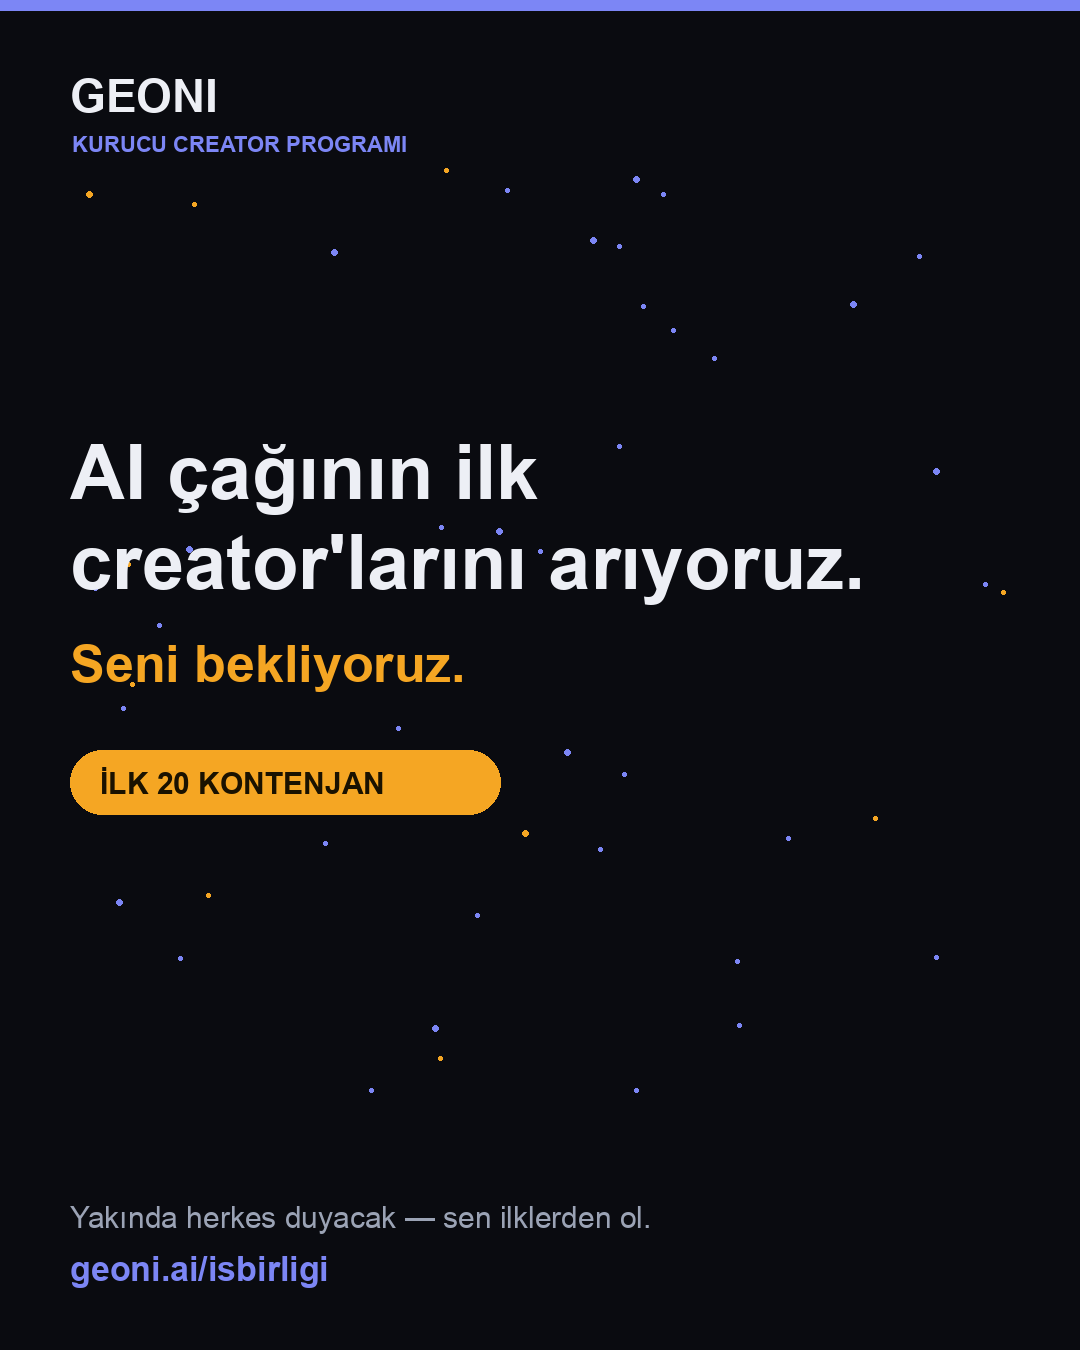
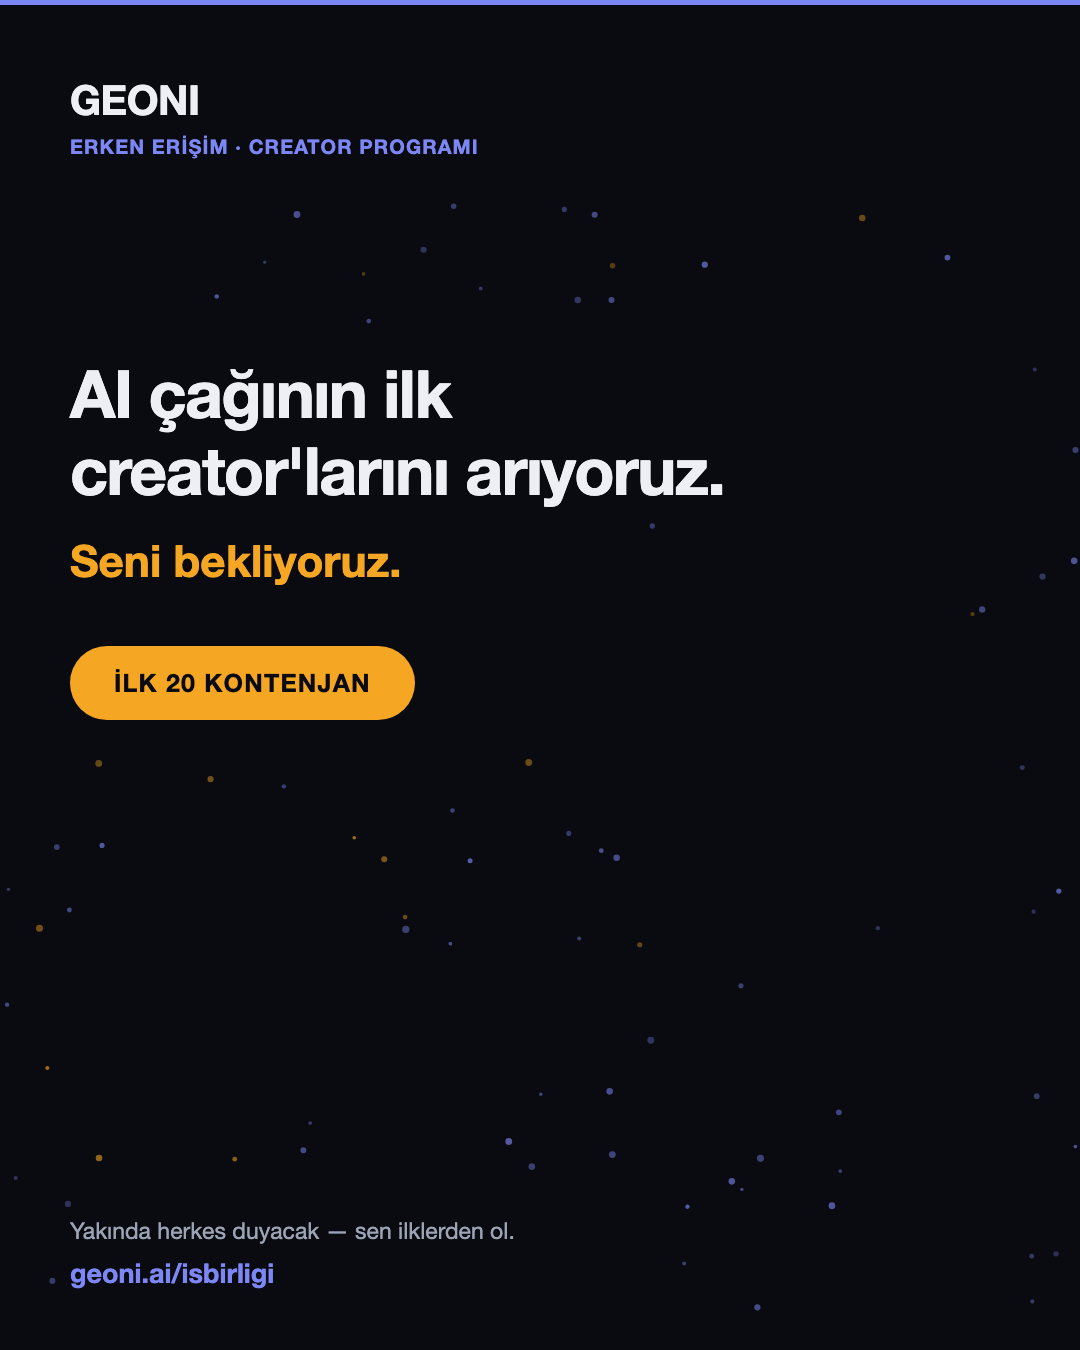
Creator hunisi: "kurucu" dili kalkti + CTA bandi gorunur hale geldi
Kurucu geri bildirimi (2026-07-25): (1) creator bloku sitenin dibinde
gorunmuyor, (2) gittigi sayfa "kurucu" diyor — kurucu aranmiyor, creator
araniyor.

1) index.html — CREATOR/ELCI bandi yeniden tasarlandi
   Blok DOM'da vardi ama cerceve/zemin yoktu; buyuk satin-alma CTA kutusunun
   hemen altinda cippak ortali metin olarak duruyordu ve dip nota donusuyordu.
   Artik kendi kutusu var. Aksan renk AMBER (#F5A623), site genelindeki indigo
   degil: farkli bir izleyiciye (arz tarafi = creator) sesleniyor, ustundeki
   marka CTA'sinin devami gibi okunmamali.
   - .reveal EKLENMEDI: opacity:0 ile basliyor, observer dusarse blok komple
     kaybolur. Bir kez kaybolmus blogu ayni riske geri sokma.
   - .creator-txt min-width:0 — flex min-width:auto 380px esasin altina
     inmeyi engelleyip dar ekranda yatay tasma yapiyordu. 390px'de dogrulandi.

2) isbirligi.html — "Kurucu creator" -> "erken erisim / creator programi"
   title, og:description, rozet, eyebrow ve kontenjan cumlesi. 5 gecis, 0 kaldi.

3) api/ig-webhook.js — DM botu prompt'u da "Erken KURUCU CREATOR" diyordu;
   ERKEN ERISIM'e cevrildi + "kurucu deme" gerekcesi prompt'a yazildi ki
   model kendi basina o kelimeye geri donmesin.

4) c0/c1/c2 gorselleri yeniden uretildi: baslik seridi
   "KURUCU CREATOR PROGRAMI" -> "ERKEN ERISIM · CREATOR PROGRAMI".
   Yildiz alani artik yazinin uzerine dusmuyor (metin kutularinin gercek
   ekran dikdortgenleri disina cikariliyor) ve sabit tohumlu — ayni girdi
[…]

diff --git a/index.html b/index.html
@@ -234,6 +234,25 @@ h2{font-family:var(--display);font-size:clamp(1.8rem,2.8vw,2.4rem);font-weight:7
 /* FOOTER */
 footer{padding:36px 48px;border-top:1px solid var(--border);text-align:center;color:var(--text-muted);font-size:.8125rem;font-family:var(--mono)}
 
+/* CREATOR / ELCI BANDI — arz tarafi (creator), talep tarafi (marka) degil.
+   Ayri bir izleyiciye seslendigi icin site genelindeki indigo yerine amber
+   aksan kullanir; ayni renkte olsaydi ustundeki satin-alma CTA'sinin devami
+   gibi okunup gozden kaciyordu (kurucu geri bildirimi 2026-07-25: "en altinda
+   gorunmuyor" — blok DOM'da vardi ama cerceve/zemin olmadigi icin dip nota
+   donusmustu). .reveal EKLENMEZ: opacity:0 ile basladigi icin observer
+   dusarse blok tamamen kaybolur; zaten bir kez kaybolmus blogu riske atma. */
+.creator-wrap{padding:0 48px 96px}
+.creator-box{max-width:1200px;margin:0 auto;background:var(--surface);border:1px solid rgba(245,166,35,.22);border-radius:14px;padding:34px 40px;display:flex;align-items:center;gap:32px;flex-wrap:wrap;position:relative;overflow:hidden}
+.creator-box::before{content:'';position:absolute;inset:0;background:radial-gradient(ellipse at 0 50%,rgba(245,166,35,.07) 0,transparent 62%);pointer-events:none}
+/* min-width:0 — flex ogesinin varsayilan min-width:auto'su, 380px'lik esasin
+   altina inmesini engelleyip dar ekranda kutuyu tasiriyordu (yatay kaydirma). */
+.creator-txt{flex:1 1 380px;min-width:0;position:relative}
+.creator-box .eyebrow{color:#F5A623;margin-bottom:10px}
+.creator-box h2{font-family:var(--display);font-size:1.4rem;font-weight:700;margin:0 0 8px}
+.creator-box p{color:var(--text-sub);font-size:.95rem;margin:0;max-width:60ch}
+.creator-btn{position:relative;flex:0 0 auto;color:var(--text);padding:13px 24px;border-radius:8px;font-size:.95rem;text-decoration:none;border:1px solid rgba(245,166,35,.4);transition:background .2s,border-color .2s;white-space:nowrap}
+.creator-btn:hover{background:rgba(245,166,35,.1);border-color:rgba(245,166,35,.7)}
+
 /* REVEAL */
 .reveal{opacity:0;transform:translateY(18px);transition:opacity .55s ease,transform .55s ease}
 .reveal.shown{opacity:1;transform:translateY(0)}
@@ -255,6 +274,10 @@ footer{padding:36px 48px;border-top:1px solid var(--border);text-align:center;co
 @media(max-width:600px){
   .pkgs{grid-template-columns:1fr}
   section,.hero,.cta-wrap,.stat-bar{padding-left:20px;padding-right:20px}
+  .creator-wrap{padding:0 20px 64px}
+  .creator-box{padding:26px 22px;gap:20px}
+  .creator-txt{flex-basis:100%}
+  .creator-btn{width:100%;text-align:center;box-sizing:border-box}
 }
 
 /* LIVE DEMO INPUT */
@@ -942,11 +965,15 @@ footer{padding:36px 48px;border-top:1px solid var(--border);text-align:center;co
 </div>
 
 <!-- CREATOR / ELÇİ CTA — influencer arz tarafını yakala; IG DM'e (bot işler) -->
-<div style="max-width:720px;margin:0 auto;padding:8px 24px 60px;text-align:center">
-  <span class="eyebrow" data-i18n="creator_eyebrow">// Creator &amp; Elçi</span>
-  <h2 style="font-size:1.35rem;margin:10px 0 10px" data-i18n="creator_h2">Influencer veya creator mısın?</h2>
-  <p style="color:var(--text-sub);font-size:.95rem;max-width:56ch;margin:0 auto 18px" data-i18n="creator_sub">AI çağında görünürlük para ediyor. @hesabını tara, AI seni öneriyor mu gör; erken GEONI creator/elçi programı için konuşalım.</p>
-  <a href="/isbirligi" class="btn-g" data-i18n="creator_cta">İş birliğini gör →</a>
+<div class="creator-wrap">
+  <div class="creator-box">
+    <div class="creator-txt">
+      <span class="eyebrow" data-i18n="creator_eyebrow">// Creator &amp; Elçi</span>
+      <h2 data-i18n="creator_h2">Influencer veya creator mısın?</h2>
+      <p data-i18n="creator_sub">AI çağında görünürlük para ediyor. @hesabını tara, AI seni öneriyor mu gör; erken GEONI creator/elçi programı için konuşalım.</p>
+    </div>
+    <a href="/isbirligi" class="creator-btn" data-i18n="creator_cta">İş birliğini gör →</a>
+  </div>
 </div>
 
 </main>

diff --git a/isbirligi.html b/isbirligi.html
@@ -3,13 +3,13 @@
 <head>
 <meta charset="utf-8">
 <meta name="viewport" content="width=device-width,initial-scale=1">
-<title>GEONI — Kurucu Creator'ları Arıyoruz (Erken Erişim)</title>
+<title>GEONI — İlk Creator'ları Arıyoruz (Erken Erişim)</title>
 <meta name="description" content="Kitlenin sorduğu soruyu ölçen araç senin olsun. GEONI, markaların ChatGPT/Claude/Gemini/Perplexity'de görünürlüğünü ölçer. Barter ya da uzman-ortak — önce dene.">
 <link rel="canonical" href="https://geoni.ai/isbirligi">
 <meta name="robots" content="index,follow">
 <meta property="og:type" content="website">
 <meta property="og:title" content="AI çağının ilk creator'larını arıyoruz — seni bekliyoruz">
-<meta property="og:description" content="Yakında herkes duyacak; sen ilklerden ol. Markaların AI görünürlüğünü ölç, barter ya da uzman-ortak — kurucu kontenjanı sınırlı.">
+<meta property="og:description" content="Yakında herkes duyacak; sen ilklerden ol. Markaların AI görünürlüğünü ölç, barter ya da uzman-ortak — erken erişim kontenjanı sınırlı.">
 <meta property="og:image" content="https://geoni.ai/og-share.png">
 <meta property="og:url" content="https://geoni.ai/isbirligi">
 <meta name="twitter:card" content="summary_large_image">
@@ -102,9 +102,9 @@
           <circle cx="66" cy="56" r="5.5" fill="#F5A623"/>
         </svg>
         <b>geoni</b>
-        <span class="tag">Erken Erişim · Kurucu Creator</span>
+        <span class="tag">Erken Erişim · Creator Programı</span>
       </div>
-      <span class="eyebrow">Kurucu creator'lar · seni bekliyoruz</span>
+      <span class="eyebrow">Creator programı · seni bekliyoruz</span>
       <h1>Kitlenin sorduğu soruyu <span class="g">ölçen araç</span> senin olsun.</h1>
       <p class="lede">GEONI, bir markanın ChatGPT, Claude, Gemini ve Perplexity cevaplarında görünüp
         görünmediğini 60 saniyede ölçer. <b>Yakında herkes duyacak — sen ilklerden ol.</b>
@@ -164,7 +164,7 @@
 
     <div class="cta">
       <h3>Önce sadece dene — skorunu merak ettik 👀</h3>
-      <p>Bir markanı ya da adını 60 saniyede ölç. Beğenirsen konuşuruz; beğenmezsen olsun. <b>Kurucu creator kontenjanı: ilk 20 kişi.</b></p>
+      <p>Bir markanı ya da adını 60 saniyede ölç. Beğenirsen konuşuruz; beğenmezsen olsun. <b>Erken erişim kontenjanı: ilk 20 creator.</b></p>
       <a class="cta-btn" href="https://app.geoni.ai?utm_source=isbirligi&utm_medium=creator" target="_blank" rel="noopener">Ücretsiz tara →</a>
       <div class="row">
         <a href="https://app.geoni.ai?utm_source=isbirligi" target="_blank" rel="noopener">Dene: geoni.ai</a>

diff --git a/api/ig-webhook.js b/api/ig-webhook.js
@@ -115,7 +115,9 @@ BILGILERIN:
   "reklam", "partner/partnerlik", "elci olabilir miyim", "creator programi",
   "collab", "birlikte calisalim" gibi bir sey yazarsa SICAK yaklas. Sirasi:
   (1) "Once kendi AI gorunurlugune bakalim — ChatGPT/Gemini seni oneriyor mu?
-  Uygulamadan @hesabini tara" de. (2) Erken KURUCU CREATOR programindan bahset
+  Uygulamadan @hesabini tara" de. (2) ERKEN ERISIM creator programindan bahset
+  ("kurucu" DEME — ortaklik/kuruculuk teklif ettigimiz izlenimi veriyor, biz
+  creator ariyoruz)
   (kontenjan SINIRLI — su an ~20 kisi). IKI CALISMA MODELI var, kisiye uygun olani oner:
     * BARTER (hizli): sinirsiz tarama + kendini/markani AI aramalarinda ucretsiz one
       cikarma + erken erisim; karsilik durust bir deneme paylasimi. TEKNIK TERIM YOK,
